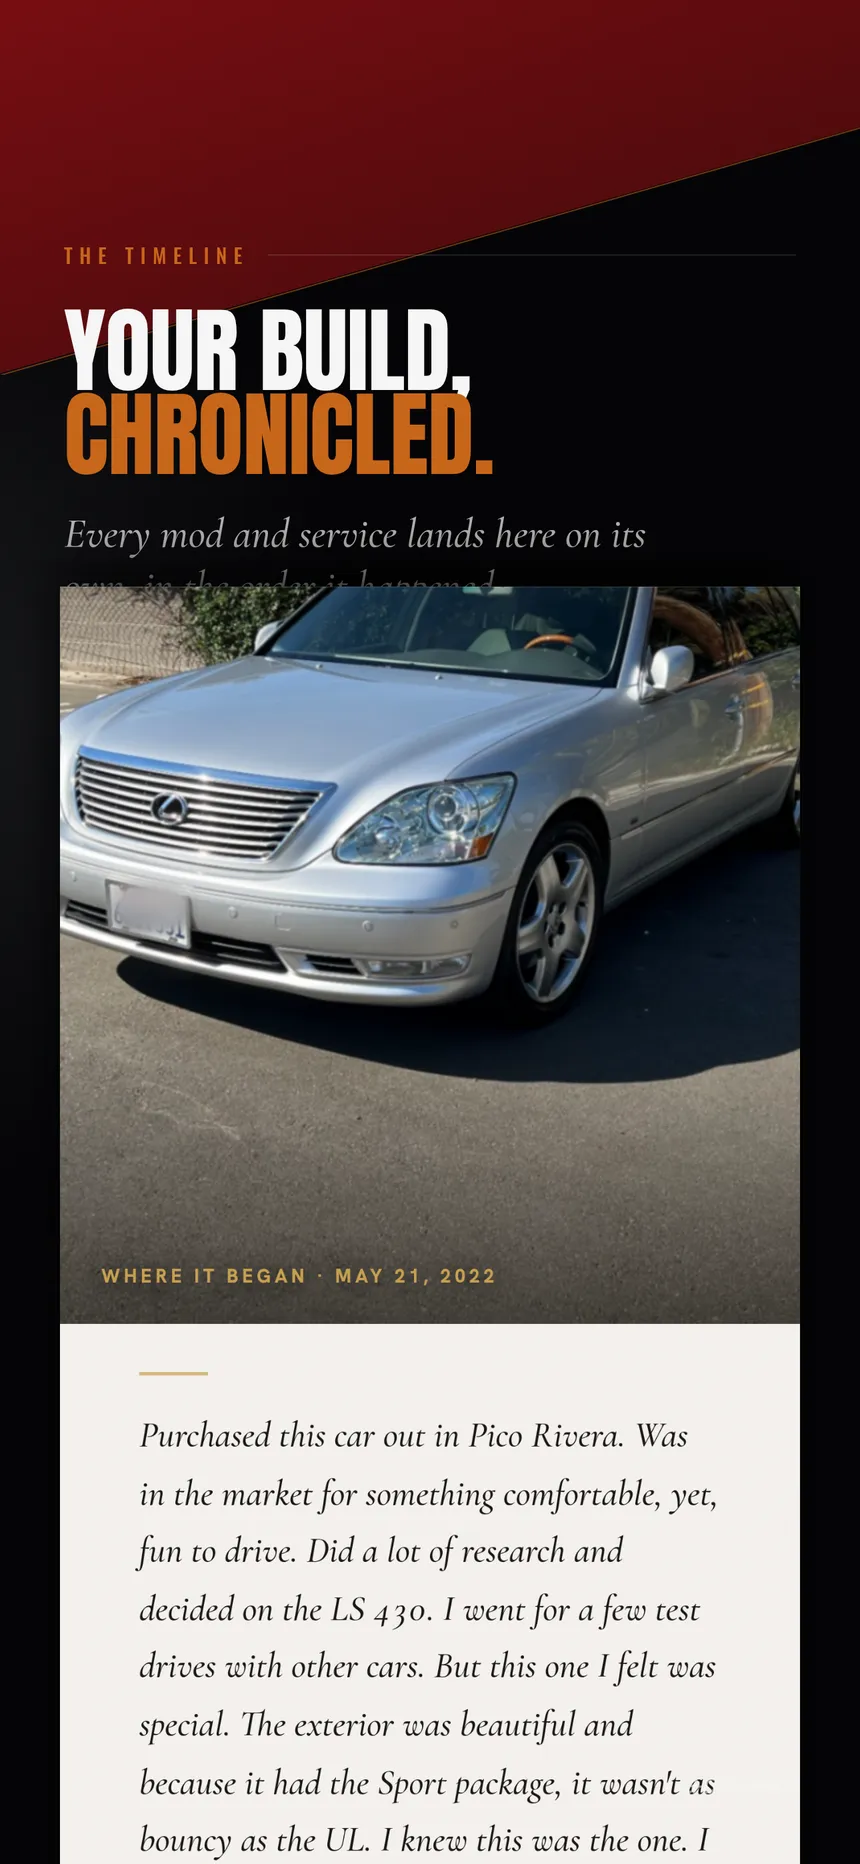
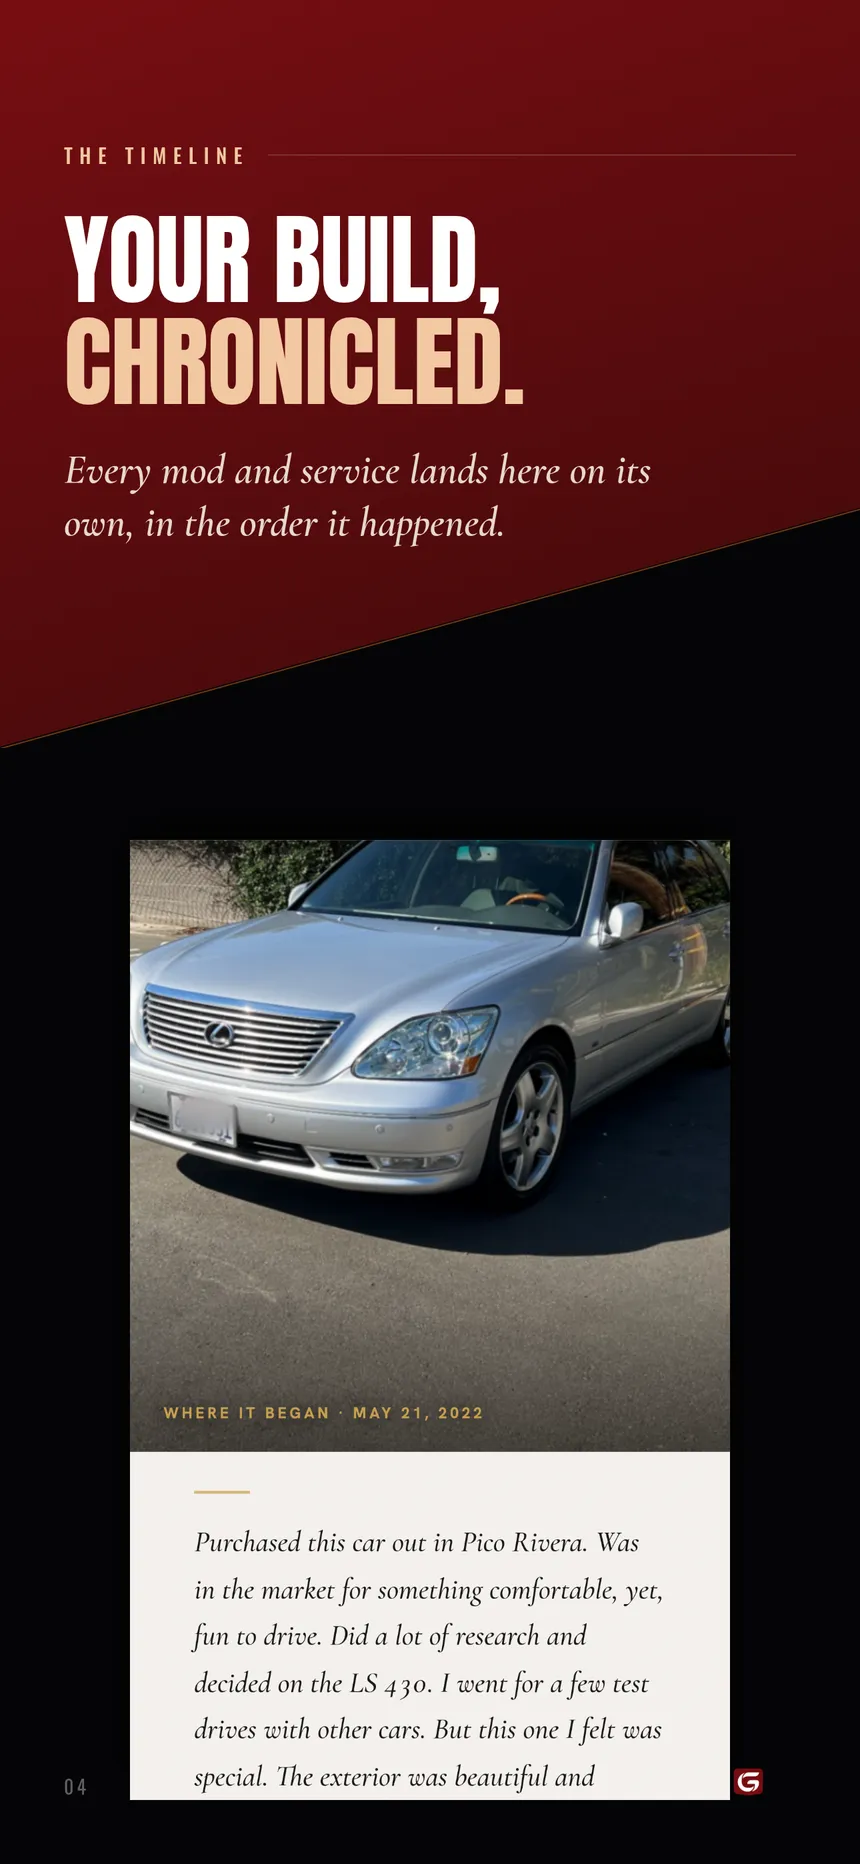
Store shots: type moves into the wedge, plus the round of owner fixes
The structural change is that the burgundy wedge now CARRIES the type instead
of sitting above it as empty colour. That was the owner's observation and it
fixes three separate problems at once: the biggest block of colour on each
panel was doing nothing, the type and the screenshot were competing for the
same space (on the Timeline the card literally overlapped the deck), and the
headline had nowhere to go on the denser screens. On burgundy the amber accent
goes muddy, so the kicker and emphasis line shift to a pale warm sand.

Per the review:
- G mark replaces the spelled-out "G-Dimension" wordmark bottom-right on every
  panel, and is gone from the top right of 01.
- 02 now uses the PUBLIC build sheet. The authed capture carried a "+ MODS"
  action button, which is an editing affordance with no place in a store shot.
- 03 gains --dev-h so the card ends just past the running total: the services
  count and the money are the last thing read, not the Add Service button.
- 04 raises line-height on its headline only. At 0.90 the comma in "Your build,"
  collided with the D of "chronicled" below it.
- 05 stacks the Transfer Car row from the car edit form directly under the build
  report, and the card heights are pinned so the report stops on its own
  "Generated on-device" line rather than trailing into grey.
- 07 replaces the public-profile map, which was too narrow to fit without
  scaling into a sliver, with the Home map at full bleed. The map is pushed down
[…]

diff --git a/design/store-shots/panel-05.html b/design/store-shots/panel-05.html
@@ -7,35 +7,42 @@
 <link href="https://fonts.googleapis.com/css2?family=Anton&family=Oswald:wght@200;300;400;500;600&family=Hanken+Grotesk:wght@400;500;600;700;800&family=Cormorant+Garamond:ital,wght@1,500;1,600&display=swap" rel="stylesheet">
 <link rel="stylesheet" href="panel.css">
 <style>
-  /* The panel that was missing. Two features that only matter at the end of
-     ownership, and together they are the strongest argument for logging
-     anything at all: a full build report, and handing the entire car profile
-     to whoever buys it.
-     Card is sized to end exactly at the canvas bottom (--dev-h) so it stops on
-     the "Generated on-device" line instead of trailing into empty grey. */
+  /* Two stacked cards: the build report, and directly under it the Transfer Car
+     action from the car edit screen — the two things that matter at the end of
+     ownership, shown in the order you would actually use them.
+     Card heights are set explicitly so the report stops on its own "Generated
+     on-device" line instead of trailing into empty grey. */
   :root {
-    --wedge-h: 470px; --wedge-rise: 44%;
-    --type-top: 330px;
-    --headline-size: 140px;
-    --dev-top: 1420px; --dev-h: 1376px; --dev-crop: 116px;
+    --wedge-h: 1000px; --wedge-rise: 74%;
+    --type-top: 210px; --headline-size: 140px;
+    --dev-w: 900px; --dev-left: 195px;
   }
+  /* Second card: a window onto the bottom action row of the car edit form. */
+  .transfer {
+    position: absolute; left: 195px; top: 2318px; width: 900px; height: 168px;
+    overflow: hidden; background: var(--cavity);
+    box-shadow: 0 -18px 44px rgba(0,0,0,0.75), 0 0 0 1px rgba(255,255,255,0.05);
+  }
+  .transfer img { position: absolute; left: 0; top: -1795px; width: 900px; height: auto; }
 </style>
 </head>
 <body>
 <div class="canvas">
-  <div class="bloom"></div>
   <div class="wedge"></div><div class="wedge-edge"></div>
 
-  <div class="type">
+  <div class="wedge-type">
     <div class="rule-row"><span class="kicker">When you sell</span><span class="hair"></span></div>
     <div class="headline">Hand over<br><span class="warm">the whole build.</span></div>
-    <div class="deck">Export the full build report, or transfer the entire car profile to its new owner.</div>
+    <div class="deck">Export the full build report, then transfer the car profile to its new owner.</div>
   </div>
 
-  <div class="device"><img src="raw/11-pdf.png" alt=""></div>
+  <div class="device" style="--dev-top:1120px; --dev-h:1094px; --dev-crop:92px;">
+    <img src="raw/11-pdf.png" alt="">
+  </div>
 
+  <div class="transfer"><img src="raw/12-car-edit.png" alt=""></div>
   <div class="numeral">05</div>
-  <div class="wordmark">G-Dimension</div>
+  <img class="gmark-corner" src="../../src/assets/logo/gdimensionG.webp" alt="">
 </div>
 </body>
 </html>

diff --git a/design/store-shots/panel-07.html b/design/store-shots/panel-07.html
@@ -7,35 +7,31 @@
 <link href="https://fonts.googleapis.com/css2?family=Anton&family=Oswald:wght@200;300;400;500;600&family=Hanken+Grotesk:wght@400;500;600;700;800&family=Cormorant+Garamond:ital,wght@1,500;1,600&display=swap" rel="stylesheet">
 <link rel="stylesheet" href="panel.css">
 <style>
-  /* Closes the set by mirroring panel 01's shallow wedge.
-     Card scaled down (--dev-w) so the WHOLE map fits: all four nodes and the
-     road between them. Cropping it to fit lost Featured and half the route,
-     which is the one thing this panel exists to show. Header kept — "Visiting
-     @scantee" is the proof that this is someone else's build being viewed. */
+  /* Closes on the Home map. The public-profile map was too narrow to fit the
+     canvas without scaling it into a sliver, and the Home screen is the same
+     drawing at full bleed with every section on it. The wedge also takes the
+     header, which carried a real face and a real handle. */
   :root {
-    --wedge-h: 300px; --wedge-rise: 66%;
-    --type-top: 400px;
-    --headline-size: 140px;
-    --dev-left: 195px; --dev-top: 812px;
-    --dev-w: 900px; --dev-h: 1951px; --dev-crop: 0px;
+    /* The map is pushed down so the HOME node clears the wedge's diagonal,
+       which otherwise sliced the roof off the house and read as a mistake. */
+    --shift: 250px;
+    --wedge-h: 1000px; --wedge-rise: 70%;
+    --type-top: 210px; --headline-size: 150px;
   }
 </style>
 </head>
 <body>
 <div class="canvas">
-  <div class="bloom"></div>
+  <img class="art" src="raw/01-home.png" alt="">
   <div class="wedge"></div><div class="wedge-edge"></div>
 
-  <div class="type">
-    <div class="rule-row"><span class="kicker">Share</span><span class="hair"></span></div>
-    <div class="headline">One link.<br><span class="warm">The whole story.</span></div>
-    <div class="deck">Garage, build sheet, timeline and cover. Anywhere you can paste a link.</div>
+  <div class="wedge-type">
+    <div class="rule-row"><span class="kicker">One place</span><span class="hair"></span></div>
+    <div class="headline">All of it,<br><span class="warm">in one link.</span></div>
+    <div class="deck">Garage, tuning, service, timeline and your cover. Share the whole thing.</div>
   </div>
-
-  <div class="device"><img src="raw/pub-profile.png" alt=""></div>
-
   <div class="numeral">07</div>
-  <div class="wordmark">G-Dimension</div>
+  <img class="gmark-corner" src="../../src/assets/logo/gdimensionG.webp" alt="">
 </div>
 </body>
 </html>

diff --git a/design/store-shots/panel-02.html b/design/store-shots/panel-02.html
@@ -7,39 +7,30 @@
 <link href="https://fonts.googleapis.com/css2?family=Anton&family=Oswald:wght@200;300;400;500;600&family=Hanken+Grotesk:wght@400;500;600;700;800&family=Cormorant+Garamond:ital,wght@1,500;1,600&display=swap" rel="stylesheet">
 <link rel="stylesheet" href="panel.css">
 <style>
-  /* Card raised and cropped harder than the first pass, which stopped at the
-     air filter and half a photo. It now runs from the car summary down past
-     the wheels and coilovers, so the CHASSIS group actually reads as a group. */
+  /* Uses the PUBLIC build sheet. The authed one carries a "+ MODS" action
+     button, which is an editing affordance with no place in a store shot.
+     Card scaled to 900px so the whole CHASSIS group reaches the canvas: at
+     1110 the list stopped at the brake kit, short of the wheels. */
   :root {
-    --wedge-h: 430px; --wedge-rise: 46%;
-    --type-top: 320px;
-    --headline-size: 140px;
-    /* Card scaled DOWN (not just cropped) so the whole CHASSIS group fits:
-       at 1110px wide only ~2360 source px reach the canvas, which stopped at
-       the brake kit. 980px fits ~2680 and reaches the wheels and coilovers. */
-    --dev-top: 880px; --dev-w: 980px; --dev-left: 155px; --dev-crop: 129px;
+    --wedge-h: 1120px; --wedge-rise: 72%;
+    --type-top: 210px; --headline-size: 150px;
+    --dev-top: 1150px; --dev-w: 860px; --dev-left: 215px; --dev-crop: 100px;
   }
 </style>
 </head>
 <body>
 <div class="canvas">
-  <div class="bloom"></div>
   <div class="wedge"></div><div class="wedge-edge"></div>
 
-  <div class="type">
+  <div class="wedge-type">
     <div class="rule-row"><span class="kicker">The Build Sheet</span><span class="hair"></span></div>
     <div class="headline">Show the<br><span class="warm">whole build.</span></div>
     <div class="deck">Specs, receipts, and the DIY steps behind every part on the car.</div>
   </div>
 
-  <div class="device">
-    <img src="raw/03-buildsheet.png" alt="">
-    <div class="plate" style="left:70px; top:222px; width:50px; height:26px;
-         backdrop-filter:blur(6px) saturate(.45); -webkit-backdrop-filter:blur(6px) saturate(.45);"></div>
-  </div>
-
+  <div class="device"><img src="raw/pub-buildsheet.png" alt=""></div>
   <div class="numeral">02</div>
-  <div class="wordmark">G-Dimension</div>
+  <img class="gmark-corner" src="../../src/assets/logo/gdimensionG.webp" alt="">
 </div>
 </body>
 </html>

diff --git a/design/store-shots/panel-04.html b/design/store-shots/panel-04.html
@@ -7,25 +7,23 @@
 <link href="https://fonts.googleapis.com/css2?family=Anton&family=Oswald:wght@200;300;400;500;600&family=Hanken+Grotesk:wght@400;500;600;700;800&family=Cormorant+Garamond:ital,wght@1,500;1,600&display=swap" rel="stylesheet">
 <link rel="stylesheet" href="panel.css">
 <style>
-  /* "It writes itself" was too clever to parse. The deck now states the actual
-     mechanism: mods and services sync onto the timeline on their own.
-     The floating chevron and CHANGE button are removed by CROPPING rather than
-     by black rectangles, which previously read as missing image. Raised so the
-     journal entry is readable, not just the photo. */
+  /* "It writes itself" was too clever to parse; the deck states the mechanism.
+     line-height is raised on this headline only: at 0.90 the comma in
+     "Your build," collided with the D of "chronicled" on the line below. */
   :root {
-    --wedge-h: 560px; --wedge-rise: 34%;
-    --type-top: 360px;
-    --headline-size: 140px;
-    --dev-top: 880px; --dev-crop: 185px;
+    --wedge-h: 1120px; --wedge-rise: 68%;
+    --type-top: 210px; --headline-size: 150px;
+    --dev-top: 1260px; --dev-w: 900px; --dev-left: 195px;
+    --dev-crop: 129px; --dev-h: 1440px;
   }
+  .wedge-type .headline { line-height: 1.02; }
 </style>
 </head>
 <body>
 <div class="canvas">
-  <div class="bloom"></div>
   <div class="wedge"></div><div class="wedge-edge"></div>
 
-  <div class="type">
+  <div class="wedge-type">
     <div class="rule-row"><span class="kicker">The Timeline</span><span class="hair"></span></div>
     <div class="headline">Your build,<br><span class="warm">chronicled.</span></div>
     <div class="deck voice">Every mod and service lands here on its own, in the order it happened.</div>
@@ -33,11 +31,10 @@
 
   <div class="device">
     <img src="raw/04-timeline.png" alt="">
-    <div class="plate" style="left:68px; top:437px; width:138px; height:92px;"></div>
+    <div class="plate" style="left:55px; top:374px; width:112px; height:78px;"></div>
   </div>
-
   <div class="numeral">04</div>
-  <div class="wordmark">G-Dimension</div>
+  <img class="gmark-corner" src="../../src/assets/logo/gdimensionG.webp" alt="">
 </div>
 </body>
 </html>

diff --git a/design/store-shots/panel-01.html b/design/store-shots/panel-01.html
@@ -7,16 +7,11 @@
 <link href="https://fonts.googleapis.com/css2?family=Anton&family=Oswald:wght@200;300;400;500;600&family=Hanken+Grotesk:wght@400;500;600;700;800&family=Cormorant+Garamond:ital,wght@1,500;1,600&display=swap" rel="stylesheet">
 <link rel="stylesheet" href="panel.css">
 <style>
-  /* Opens the set: wedge shallow, canvas nearly all black. */
+  /* Opens the set. Wedge is the shallowest of the run and carries the type. */
   :root {
     --shift: -150px;
-    /* Wedge raised on the right so it swallows the app's own "01 / 14"
-       carousel counter, which otherwise sits right where the brand mark goes
-       and reads as clutter. Headline drops a step to keep the deck clear of
-       the car's roofline. */
-    --wedge-h: 430px; --wedge-rise: 60%;
-    --type-top: 480px;
-    --headline-size: 158px;
+    --wedge-h: 1120px; --wedge-rise: 74%;
+    --type-top: 210px; --headline-size: 158px;
     --footer-top: 2268px;
   }
 </style>
@@ -27,16 +22,9 @@
   <div class="plate" style="left:176px; top:calc(1756px + var(--shift)); width:146px; height:56px;"></div>
 
   <div class="footer"></div><div class="footer-rule"></div>
-  <div class="scrim"></div><div class="bloom"></div>
   <div class="wedge"></div><div class="wedge-edge"></div>
 
-  <!-- Brand mark, top right in the black band. Positioned absolutely rather
-       than inside the kicker row: in the row it sat at hairline height and read
-       as a stray icon instead of a masthead. -->
-  <img class="gmark" src="../../src/assets/logo/gdimensionG.webp" alt=""
-       style="right:96px; top:318px; height:104px;">
-
-  <div class="type">
+  <div class="wedge-type">
     <div class="rule-row"><span class="kicker">The Garage</span><span class="hair"></span></div>
     <div class="headline">Your build<br><span class="warm">has a story.</span></div>
     <div class="deck">Every car you have owned, logged in one place that does not forget.</div>
@@ -48,7 +36,7 @@
     <span>Timeline</span>
   </div>
   <div class="numeral">01</div>
-  <div class="wordmark">G-Dimension</div>
+  <img class="gmark-corner" src="../../src/assets/logo/gdimensionG.webp" alt="">
 </div>
 </body>
 </html>

diff --git a/design/store-shots/panel-03.html b/design/store-shots/panel-03.html
@@ -7,33 +7,31 @@
 <link href="https://fonts.googleapis.com/css2?family=Anton&family=Oswald:wght@200;300;400;500;600&family=Hanken+Grotesk:wght@400;500;600;700;800&family=Cormorant+Garamond:ital,wght@1,500;1,600&display=swap" rel="stylesheet">
 <link rel="stylesheet" href="panel.css">
 <style>
-  /* Moved ahead of the Timeline: this is a service tracker first, so the
-     service record should land before the storytelling.
-     The big stat block is gone. The app's OWN list already shows dates,
-     mileage, cost and the running total, and showing it beats captioning it. */
+  /* Ahead of the Timeline: a service tracker should show the record before the
+     storytelling. --dev-h ends the card just past the running total, so the
+     services count and the money are the last thing you read rather than the
+     Add Service button. */
   :root {
-    --wedge-h: 500px; --wedge-rise: 40%;
-    --type-top: 340px;
-    --headline-size: 140px;
-    --dev-top: 880px; --dev-crop: 155px;
+    --wedge-h: 1120px; --wedge-rise: 70%;
+    --type-top: 210px; --headline-size: 150px;
+    --dev-top: 1260px; --dev-w: 900px; --dev-left: 195px;
+    --dev-crop: 112px; --dev-h: 1440px;
   }
 </style>
 </head>
 <body>
 <div class="canvas">
-  <div class="bloom"></div>
   <div class="wedge"></div><div class="wedge-edge"></div>
 
-  <div class="type">
+  <div class="wedge-type">
     <div class="rule-row"><span class="kicker">Service History</span><span class="hair"></span></div>
     <div class="headline">Every service,<br><span class="warm">logged.</span></div>
     <div class="deck">Date, mileage, cost, and the shop. On every oil change and every repair.</div>
   </div>
 
   <div class="device"><img src="raw/06b-service.png" alt=""></div>
-
   <div class="numeral">03</div>
-  <div class="wordmark">G-Dimension</div>
+  <img class="gmark-corner" src="../../src/assets/logo/gdimensionG.webp" alt="">
 </div>
 </body>
 </html>

diff --git a/design/store-shots/panel.css b/design/store-shots/panel.css
@@ -193,3 +193,29 @@ html, body { background: #17181a; }
 
 /* Brand mark, for the corner of a panel with room for it. */
 .gmark { position: absolute; height: 64px; width: auto; display: block; }
+
+/* ── Type set INSIDE the wedge ─────────────────────────────────────────────
+   The wedge used to be empty burgundy with the type below it, which wasted the
+   biggest block of colour on the panel AND left the type competing with the
+   app screenshot for the same space (on the Timeline the card literally
+   overlapped the deck). Setting the type in the wedge gives it an uncontested
+   field and turns the wedge into a masthead.
+
+   Colour changes on burgundy: COLOR_ACCENT (#c8661a) is only a few steps from
+   COLOR_BRAND (#780E12) and goes muddy on it, so the kicker and the emphasis
+   line move to a pale warm sand. White stays white. */
+.wedge-type { position: absolute; left: 96px; right: 96px; top: var(--type-top, 210px); z-index: 3; }
+.wedge-type .kicker { color: #f0c9a0; }
+.wedge-type .hair { background: rgba(245,240,228,0.30); }
+.wedge-type .headline { color: #ffffff; }
+.wedge-type .headline .warm { color: #f2c8a2; }
+.wedge-type .deck { color: rgba(245,240,228,0.80); }
+/* Cormorant on burgundy needs a touch more weight to hold up. */
+.wedge-type .deck.voice { color: rgba(245,240,228,0.90); font-weight: 600; }
+
+/* Brand mark in the bottom-right corner, replacing the spelled-out wordmark on
+   every panel. */
+.gmark-corner {
+  position: absolute; right: 96px; bottom: 84px;
+  height: 78px; width: auto; display: block;
+}

diff --git a/design/store-shots/panel-06.html b/design/store-shots/panel-06.html
@@ -7,14 +7,13 @@
 <link href="https://fonts.googleapis.com/css2?family=Anton&family=Oswald:wght@200;300;400;500;600&family=Hanken+Grotesk:wght@400;500;600;700;800&family=Cormorant+Garamond:ital,wght@1,500;1,600&display=swap" rel="stylesheet">
 <link rel="stylesheet" href="panel.css">
 <style>
-  /* The cover is finished work, so this panel stays out of its way.
-     The dead band between the photo and the cover's own headline is now doing
-     a job: it carries the line that says what the feature actually IS, which
-     the cover alone never explains. */
+  /* The deliberate exception in the run. The Featured cover is finished work
+     that fills the canvas, so a full-height wedge would bury it; this panel
+     keeps the small wedge and sets its one line in the cover's own dead band
+     between photo and headline. */
   :root {
     --wedge-h: 348px; --wedge-rise: 74%;
-    --type-top: 418px;
-    --headline-size: 104px;
+    --type-top: 418px; --headline-size: 104px;
     --deck-top: 1735px;
   }
 </style>
@@ -32,8 +31,8 @@
   </div>
 
   <div class="deck-float">The app writes you a magazine cover from your own photos and specs.</div>
-
   <div class="numeral">06</div>
+  <img class="gmark-corner" src="../../src/assets/logo/gdimensionG.webp" alt="">
 </div>
 </body>
 </html>

diff --git a/design/store-shots/index.html b/design/store-shots/index.html
@@ -56,7 +56,7 @@
     <figure><img src="panel-04.png" alt=""><figcaption>04 &middot; Timeline</figcaption></figure>
     <figure><img src="panel-05.png" alt=""><figcaption>05 &middot; Sell / Transfer</figcaption></figure>
     <figure><img src="panel-06.png" alt=""><figcaption>06 &middot; Featured</figcaption></figure>
-    <figure><img src="panel-07.png" alt=""><figcaption>07 &middot; Share</figcaption></figure>
+    <figure><img src="panel-07.png" alt=""><figcaption>07 &middot; One place</figcaption></figure>
   </div>
 </body>
 </html>

diff --git a/src/pages/AdminStoreShotsPage.tsx b/src/pages/AdminStoreShotsPage.tsx
@@ -51,7 +51,7 @@ const PANELS: Panel[] = [
   { n: '04', title: 'Timeline',    line: 'Your build, chronicled.' },
   { n: '05', title: 'Sell',        line: 'Hand over the whole build.' },
   { n: '06', title: 'Featured',    line: 'Your build, on a cover.' },
-  { n: '07', title: 'Share',       line: 'One link. The whole story.' },
+  { n: '07', title: 'One place',   line: 'All of it, in one link.' },
 ]
 
 const SOURCES: Record<string, string> = {
